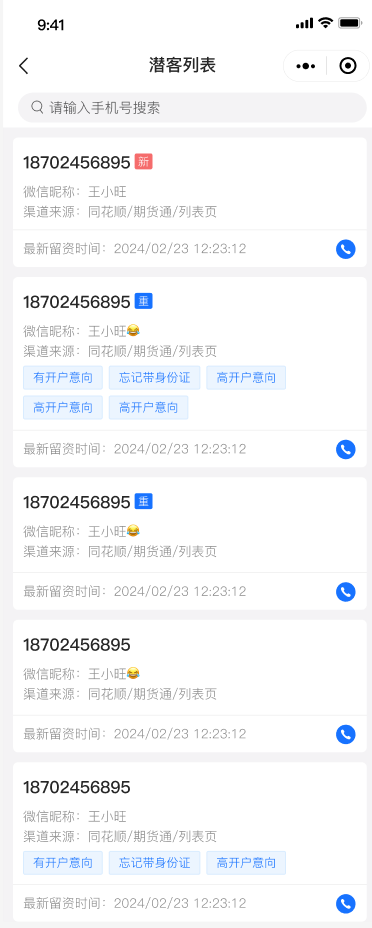
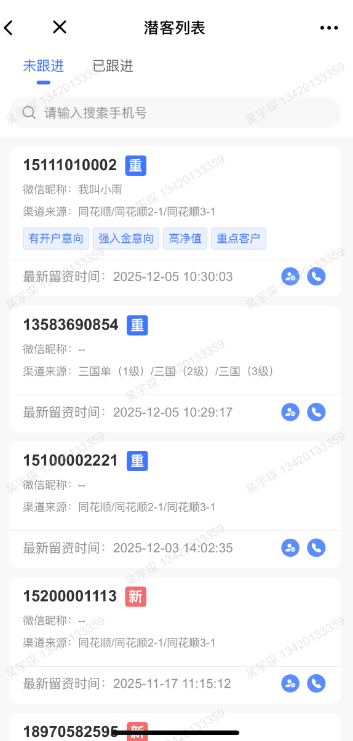
德索SCRM-升级-V1.9.4.5

diff --git a/docs/manual/scrm/mobile-admin.md b/docs/manual/scrm/mobile-admin.md
@@ -10,7 +10,7 @@
 实际交付期货公司的，数据源来自与德索CRM系统，为期货公司的每日最新的生产数据。
 :::
 
-本文档会随着知客功能的拓展而更新。
+本文档会随着知客功能的拓展而更新,当前对应版本为V1.9.4.5。
 
 ## 二、公告管理
 
@@ -56,9 +56,13 @@
 
 3)审核通过的公告会出现在已审核和已发布中，可以点击进行查看。
 
-<!-- -->
+### 4.  公告查看
 
-### 4.  公告修改及下架
+审核通过的公告，可以在知客小程序中进行查看：
+
+<img src="./mobile-admin-media/image5.png" alt="描述" width="300" />
+
+### 5.  公告修改及下架
 
 <!-- -->
 
@@ -88,7 +92,7 @@
 
 <!-- -->
 
-1)在小程序端的【客户】-【营销海报】中，点击下方的更换海报，即可更换更多海报；
+1)在企业微信工作台-营销助手中，可以使用营销海报功能，点击左下角的更换海报，即可更换更多海报；
 
 <img src="./mobile-admin-media/image10.png" alt="描述" width="300" />
 <img src="./mobile-admin-media/image11.png" alt="描述" width="300" />
@@ -227,16 +231,7 @@
 >>6)  用户角色调整后，需要重新退出，然后登录知客。
 >>
 
-### 3.  消息订阅管理
-
-知客用户在消息页面进行订阅设置，包括：异动消息、提醒消息、掌厅消息等。
-其订阅设置保存在后台中，可以在此进行查看和修改。
-
-![descript](./mobile-admin-media/image23.png)
-
-其中，只有策略状态为启用的消息，才是后台已经正常在推送的消息，此时用户订阅了才能正常收到；
-
-### 4.  版本信息管理
+### 3.  版本信息管理
 
 用于维护【关于】中的版本信息；
 
@@ -282,6 +277,108 @@
 | to_page<br>客户经理通讯录点击效果 | 1 | 0不下转，1跳转到客户经理简报 |
 | water_set<br>水印内容 | staffName,mobile | 需要显示设置项的id，以逗号(英文)区分，且只能填2项。staffName:员工号； mobile:手机号；deptCode:部门号；staffId:工号 |
 
+### 配置项分类详细说明
+
+#### 1. 登录相关参数
+
+| 配置项及含义 | 配置项值 | 配置项描述及影响范围 |
+| ------------ | -------- | -------------------- |
+| default_login_type<br>默认登录方式 | 0（默认） | 账号密码登录 |
+| | 1 | 手机号登录，但依赖于另一个配置项 is_phone_login=1 才生效 |
+| is_phone_login<br>是否开启手机号+验证码登录 | 1（默认） | 开启。账号密码登录页面展示"手机号登录"选项。 |
+| | 0 | 不开启。账号密码登录页面不展示"手机号登录"选项。 |
+
+is_phone_login 开启效果：
+
+<img src="./mobile-admin-media/image25.png" alt="手机号登录-开启" width="300" />
+
+is_phone_login 关闭效果：
+
+<img src="./mobile-admin-media/image26.png" alt="手机号登录-关闭" width="300" />
+
+| 配置项及含义 | 配置项值 | 配置项描述及影响范围 |
+| ------------ | -------- | -------------------- |
+| bind_wx<br>是否启用绑定微信 | 1（默认） | 启用。知客小程序登录页面展示"绑定微信号"的选项。 |
+| | 0 | 不启用。知客小程序登录页面不展示"绑定微信号"的选项。 |
+
+bind_wx 开启效果：
+
+<img src="./mobile-admin-media/image27.png" alt="绑定微信-开启" width="300" />
+
+| 配置项及含义 | 配置项值 | 配置项描述及影响范围 |
+| ------------ | -------- | -------------------- |
+| pwdFreeLoginSwitch<br>免密登录有效期开关 | 1（默认） | 开启。与参数"pwdEffectiveTime"关联使用。 |
+| | 0 | 关闭 |
+| pwdEffectiveTime<br>免密登录有效期时间设置 | 格式举例：0.5H（半小时）、12H（12小时）、7D（7天） | 当且仅当参数"pwdFreeLoginSwitch"设置为1时生效。用户登录系统后，在此时间段内保持免密登录状态。超过此时长后，登录状态将失效，用户需要重新输入账号密码或验证码进行登录。若设置为"0"则表示每次均需要手动登录。 |
+
+#### 2. 数据脱敏相关参数
+
+| 配置项及含义 | 配置项值 | 配置项描述及影响范围 |
+| ------------ | -------- | -------------------- |
+| desensitize.isDirectService<br>直接开发客户信息脱敏 | 1（默认） | 脱敏。开启后，业务用户名下的直接开发客户的客户详情部分字段进行脱敏。 |
+| | 0 | 不脱敏。 |
+| desensitize.isBrokerService<br>居间开发客户信息脱敏 | 1（默认） | 脱敏。开启后，业务用户名下的居间开发客户的客户详情部分字段进行脱敏。 |
+| | 0 | 不脱敏。 |
+| desensitize.isDeptService<br>部门直接开发客户信息脱敏 | 1（默认） | 脱敏。"部门直接开发客户"指客户属于当前部门的客户经理直接开发，对这类客户进行信息脱敏。 |
+| | 0 | 不脱敏。 |
+| desensitize.isDeptbrokerService<br>部门居间开发客户信息脱敏 | 1（默认） | 脱敏。"部门居间开发客户"指客户属于当前部门的客户经理居间开发，对这类客户进行信息脱敏。 |
+| | 0 | 不脱敏。 |
+| desensitize.isSalesmanService<br>部门经理直接开发客户信息脱敏 | 1（默认） | 脱敏。"部门经理直接开发客户"指客户属于当前部门的客户部门经理直接开发，对这类客户进行信息脱敏。 |
+| | 0 | 不脱敏。 |
+
+#### 3. 功能页面相关参数
+
+| 配置项及含义 | 配置项值 | 配置项描述及影响范围 |
+| ------------ | -------- | -------------------- |
+| idx_audit<br>知客首页是否展示"业务流程审批" | 1（默认） | 显示 |
+| | 0 | 不显示 |
+
+idx_audit 开启效果：
+
+<img src="./mobile-admin-media/image28.png" alt="业务审批-显示" width="300" />
+
+| 配置项及含义 | 配置项值 | 配置项描述及影响范围 |
+| ------------ | -------- | -------------------- |
+| to_page<br>【我的->客户经理】是否跳转到业绩简报 | 1（默认） | 跳转。部门经理、总经理在【我的->客户经理】列表中，点击客户经理名称，跳转到业绩简报。 |
+| | 0 | 不跳转。 |
+| login_to_page<br>默认登录页面 | /pages/customer/customer | 设置用户登录后进入的知客页面，默认设置为跳转到【客户】模块 |
+
+#### 4. 数据安全相关参数
+
+| 配置项及含义 | 配置项值 | 配置项描述及影响范围 |
+| ------------ | -------- | -------------------- |
+| is_need_encrypt<br>前后端传输数据加解密开关 | 1 | 数据传输需要进行加解密 |
+| | 0（默认） | 数据传输不进行加解密 |
+| water_set<br>水印内容设置 | staffName,mobile | 参数值填写需要显示的字段对应的id，以逗号(英文)区分，且只能填2项。可选字段：staffName（员工名称）、mobile（手机号）、deptCode（部门号）、staffId（工号） |
+
+#### 5. 渠道2.0相关参数
+
+| 配置项及含义 | 配置项值 | 配置项描述及影响范围 |
+| ------------ | -------- | -------------------- |
+| channel_version<br>渠道系统版本 | V1（默认） | 对接渠道1.0版本 |
+| | V2 | 对接渠道2.0版本（渠道切换版本需要和知客运维同事确认。） |
+| channelV2_msg_wx_textcard_url<br>渠道2.0企微消息卡片跳转页面url | 由开发配置 | 维护对接渠道2.0系统，知客消息推送到企微后，点击消息卡片的"查看详情"，跳转的页面url。 |
+
 ## 八、系统指派配置
 
 此模块用于维护消息模块的提醒是否要转换成系统指派的跟进记录，由客户经理完成跟进。若有个性化需求，请联系系统供应商，由德索系统运维人员进行配置。
+
+## 九、消息订阅管理
+
+此模块提供给管理员为特定业务用户设置消息订阅状态。
+
+![descript](./mobile-admin-media/image29.png)
+
+在左侧的组织架构树中，选中需要设置的业务用户名称，右侧展示系统支持的所有消息类型列表。
+
+列表中复选框勾选表示"订阅"，没有勾选的表示"未订阅"，展示该用户当前最新的消息类型订阅情况，所见即所得。
+
+每次只能对单个业务用户进行设置。调整设置后，点击"保存设置"按钮，即可保存当前设置内容，即时生效。设置的结果也会实时同步到知客客户端。
+
+![descript](./mobile-admin-media/image30.png)
+
+部分消息会根据【消息规则管理】中配置的消息推送策略进行推送，那么在列表中，消息名称右侧就会对应回显该消息的推送策略当前的状态。
+
+若策略状态为"关闭"，即使订阅状态设置为"订阅"，也不会给用户推送该类型的消息。
+
+![descript](./mobile-admin-media/image31.png)

diff --git a/docs/manual/scrm/mobile.md b/docs/manual/scrm/mobile.md
@@ -10,7 +10,7 @@
 实际交付期货公司的，数据源来自与德索CRM系统，为期货公司的每日最新的生产数据。
 :::
 
-本文档会随着知客功能的拓展而更新,当前对应版本为V1.9.3。
+本文档会随着知客功能的拓展而更新,当前对应版本为V1.9.4.5。
 
 ## 二、关于登录
 
@@ -120,13 +120,12 @@
 
 5)免密登录有效期：
 
-支持管理员在知客后台的【配置管理】中，通过参数设置用户免密登录的有效期。业务用户登录系统后，在此时间段内保持免密登录状态。超过此时长后，登录状态将失效，用户需要重新输入账号密码进行登录。
+支持管理员在知客后台的【配置管理】中，通过参数设置用户免密登录的有效期。相关参数的设置和说明如下：
 
-有效期的格式为（以下举例说明）：0.5H（半小时）、12H（12小时）、7D（7天）
-
-参数名称“pwdEffectiveTime”。
-
-![descript](./mobile-media/image8-6-1.png)
+| 参数名称 | 说明 | 码值/格式 |
+|---|---|---|
+| pwdFreeLoginSwitch | **免密登录有效期开关。** 默认设置为0（关闭）。若将参数设置为1，表示开启，则会关联参数"pwdEffectiveTime"设置的免密登录有效期时间，进行免密登录，有效期失效后需要重新手动登录。知客默认免密登录，若无需有效期，则将参数设置为0。 | 1-开，0-关 |
+| pwdEffectiveTime | **设置免密登录的有效期。** 当且仅当参数"pwdFreeLoginSwitch"设置为1时生效。用户登录系统后，在此时间段内保持免密登录状态。超过此时长后，登录状态将失效，用户需要重新输入账号密码或验证码进行登录。 | 格式（举例）：0.5H（半小时）、12H（12小时）、7D（7天） |
 
 
 #### 2.2.解绑企业微信
@@ -162,7 +161,7 @@
 
 ![descript](./mobile-media/image10.png)
 
-默认功能从左上开始依次为 客户筛选、期货实时数据、新开客户、公司保证金率、智能名片、部门榜单。
+排列暂定2*4，默认功能从左上开始依次为 客户筛选、期货实时数据、新开客户、公司保证金率、智能名片、部门榜单。
 
 ::: tip
 支持根据期货公司要求调换顺序，后台配置实现。
@@ -376,6 +375,10 @@
 
 #### 8.4 订阅消息类型：
 
+支持业务用户自定义设置需要订阅哪些类型的消息。
+
+设置为"订阅"，消息推送到知客的同时也推送到业务用户的企微中。
+
 可以设置需要查看的异动、提醒的类型，如图：
 
 ![descript](./mobile-media/image37.png)
@@ -457,6 +460,10 @@ e)实时品种持仓客户数排名：
 若对接渠道1.0版本，跳转到的潜客列表如下图展示：
 
 ![descript](./mobile-media/image41.png)
+
+若对接渠道2.0版本，跳转到的潜客列表如下图展示：
+
+![descript](./mobile-media/image41-1.png)
 
 - 转化中：已开户，但未开始交易的客户。
 
@@ -789,7 +796,7 @@ e)实时品种持仓客户数排名：
 
 ## 五、【简报】功能介绍
 
-围绕指标概览、开户专题、部门排行、活跃品种、次席客户和客户十大等主题，搭建起公司、部门、个人不同角色下的工作简报，支持日报和月报的切合，一手掌握工作进展，评估工作内容，及时调整业务方向。
+围绕指标概览、开户专题、部门排行、活跃品种、次席客户、客户十大和员工业绩排行等主题，搭建起公司、部门、个人不同角色下的工作简报，支持日报和月报的切合，一手掌握工作进展，评估工作内容，及时调整业务方向。
 
 ### 1.简报功能界面
 
@@ -974,6 +981,7 @@ e)实时品种持仓客户数排名：
 潜客列表支持对潜客的手机号模糊匹配搜索，与客户概览潜客阶段跳转的潜客列表页相同，如图:
 
 ![descript](./mobile-media/image103-1.png)
+![descript](./mobile-media/image103-2.png)
 
 ### 3.居间
 
